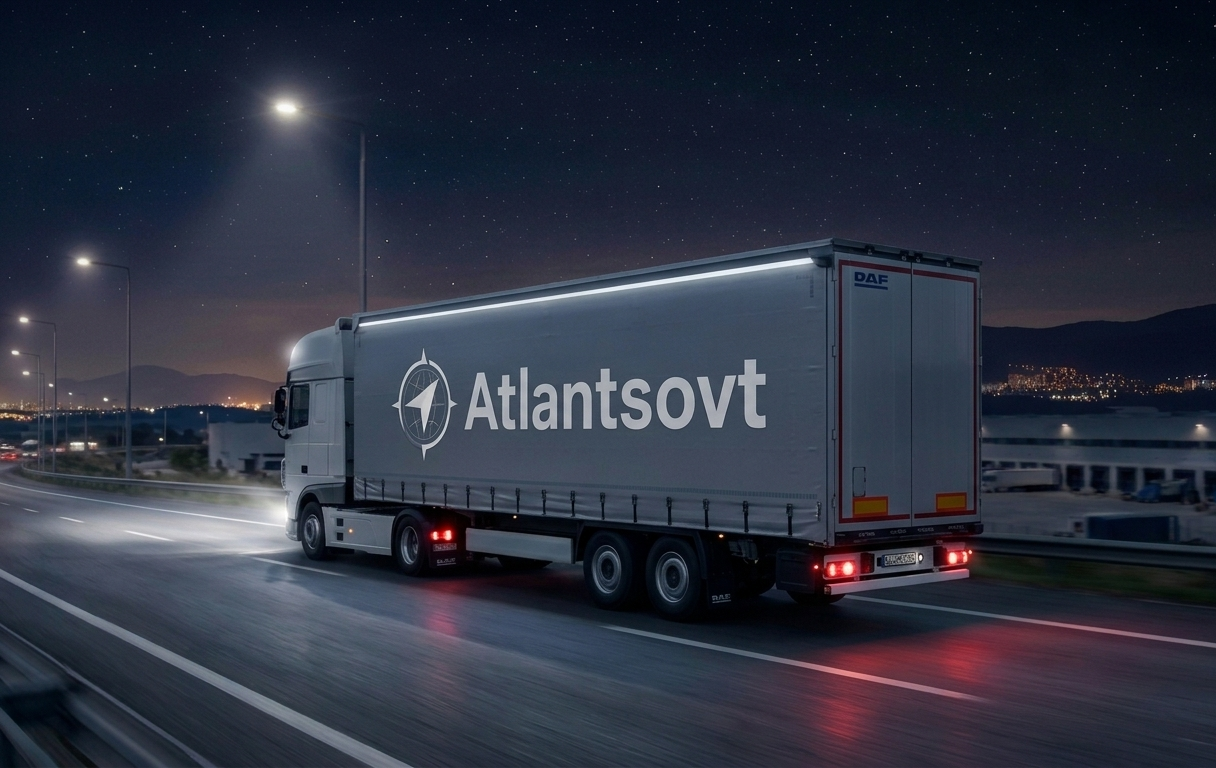
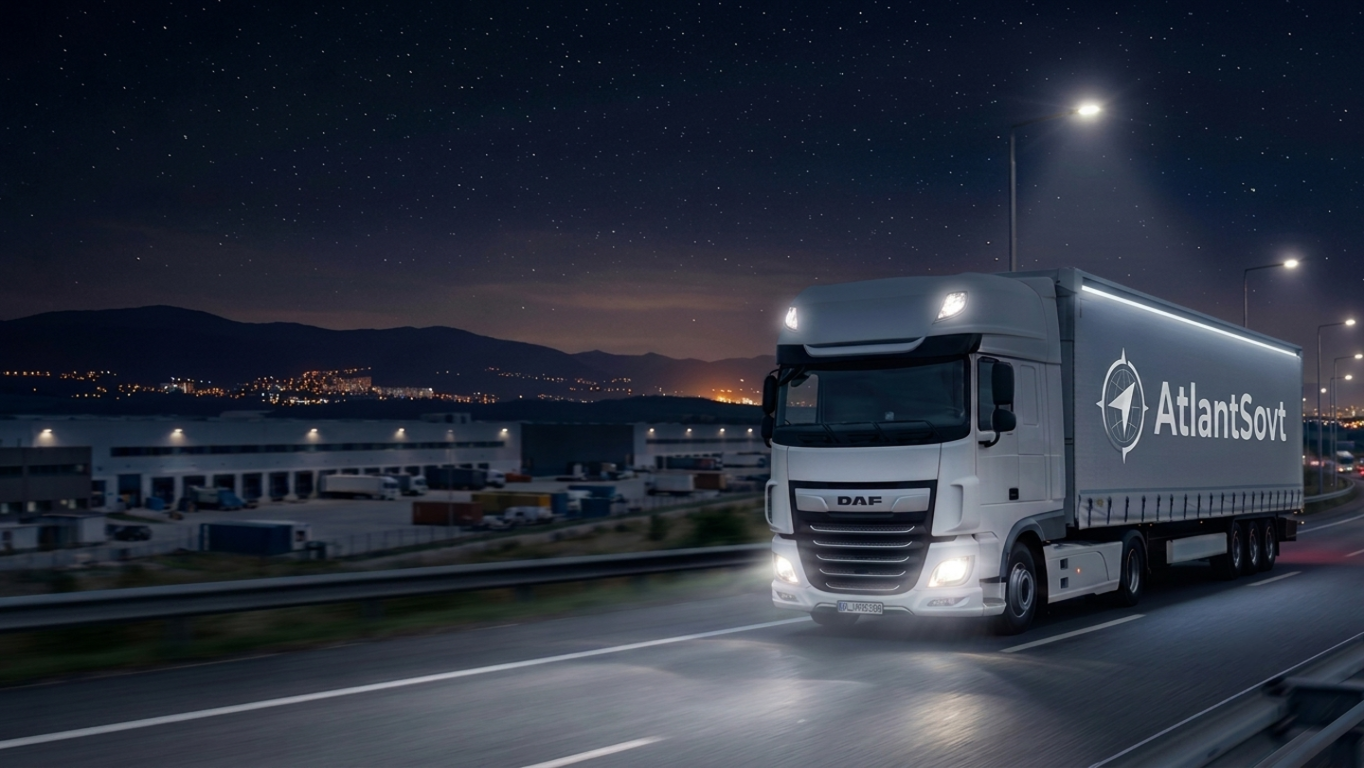
changed photos, fixed phone number

diff --git a/index.html b/index.html
@@ -147,7 +147,7 @@
             <button class="btn-readmore" data-section="s2" data-i18n="s2.readmore">Читати більше</button>
         </div>
         <div class="svc-img">
-            <img src="assets/zoll.jpg" alt="Митне оформлення">
+            <img src="assets/zoll.png" alt="Митне оформлення">
         </div>
     </div>
 </section>
@@ -202,7 +202,7 @@
         <div class="fc-item">
             <div class="fc-label" data-i18n="hero.tel">Телефон</div>
             <div class="fc-value">
-                <a class="link-tel" href="tel:+4934298730012">+380676711736</a>
+                <a class="link-tel" href="tel:+380676711736">+380676711736</a>
                 <a class="link-wa" href="https://wa.me/380676711736">+380676711736</a>
             </div>
         </div>
